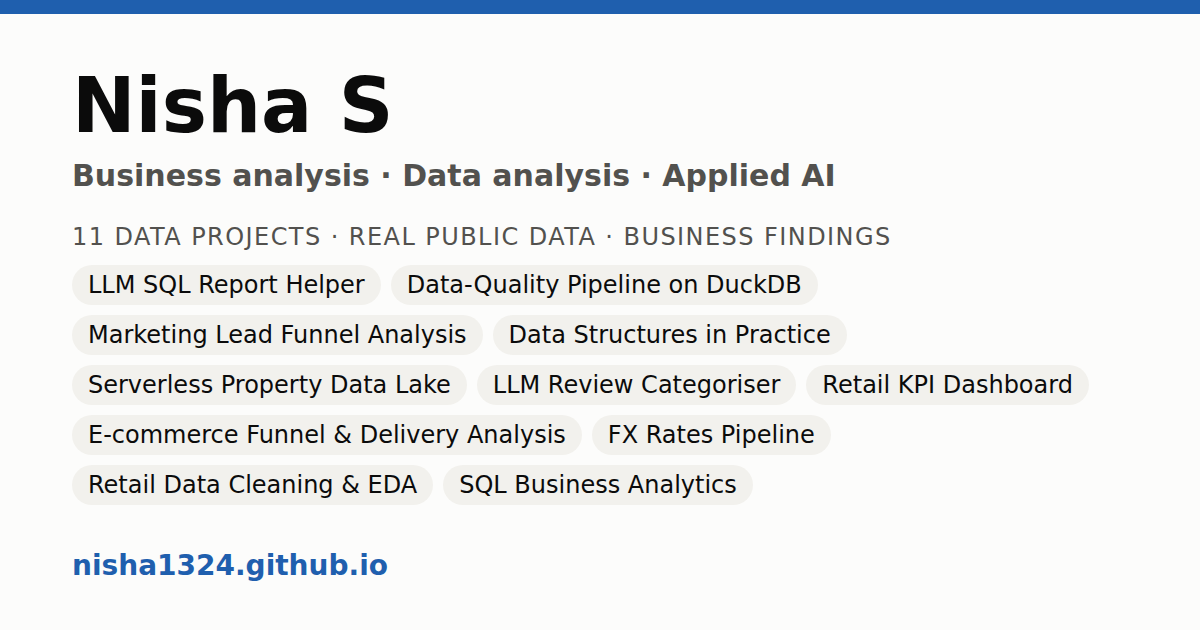
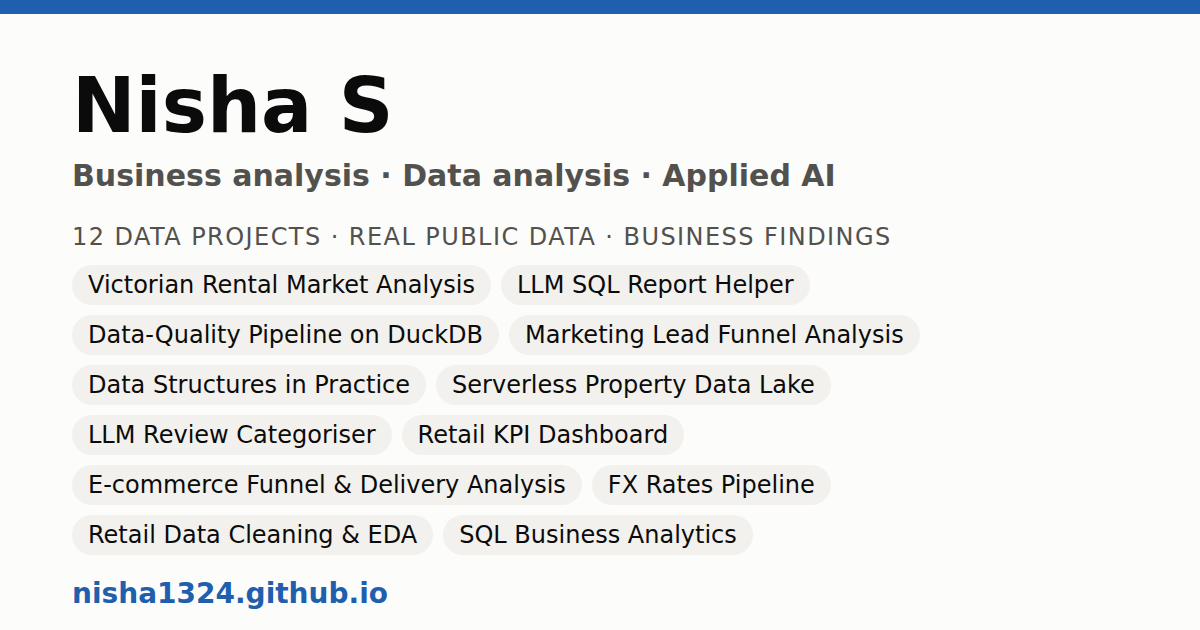
feat: add vic-rental-market-analysis project card with its rent growth vs affordability chart

diff --git a/README.md b/README.md
@@ -59,4 +59,4 @@ Optional refreshes (need network): `python scripts/sync_github.py` and `python s
 `tests/test_build.py` builds the site from the real inputs and checks that every project has a card, an anchor, a repo link and a chart with alt text and size, with no duplicate ids. Other tests check the Open Graph tags and the 1200×630 preview image, check that every internal link and image resolves, and check that two builds give identical bytes, and that the build fails on broken inputs: a missing field, a tampered chart, a chart re-pinned without re-fetching, and a private, archived or forked repo. One test makes sure text is HTML-escaped.
 
 ## Data credits
-The charts are outputs of the linked projects, which use: NYC Open Data 311 Service Requests (NYC.gov Terms of Use); HM Land Registry Price Paid Data (© Crown copyright, OGL v3.0); UCI Sentiment Labelled Sentences, UCI Online Retail and UCI Online Retail II (CC BY 4.0); Olist Brazilian E-commerce (© Olist, CC BY-NC-SA 4.0); ECB reference rates via the Frankfurter API; and the Chinook sample database. Each project's README has the full citation.
+The charts are outputs of the linked projects, which use: NYC Open Data 311 Service Requests (NYC.gov Terms of Use); HM Land Registry Price Paid Data (© Crown copyright, OGL v3.0); UCI Sentiment Labelled Sentences, UCI Online Retail and UCI Online Retail II (CC BY 4.0); Olist Brazilian E-commerce (© Olist, CC BY-NC-SA 4.0); ECB reference rates via the Frankfurter API; Homes Victoria Rental Report – Quarterly, and ABS Consumer Price Index, Building Approvals and Census 2021 data (CC BY 4.0); and the Chinook sample database. Each project's README has the full citation.
